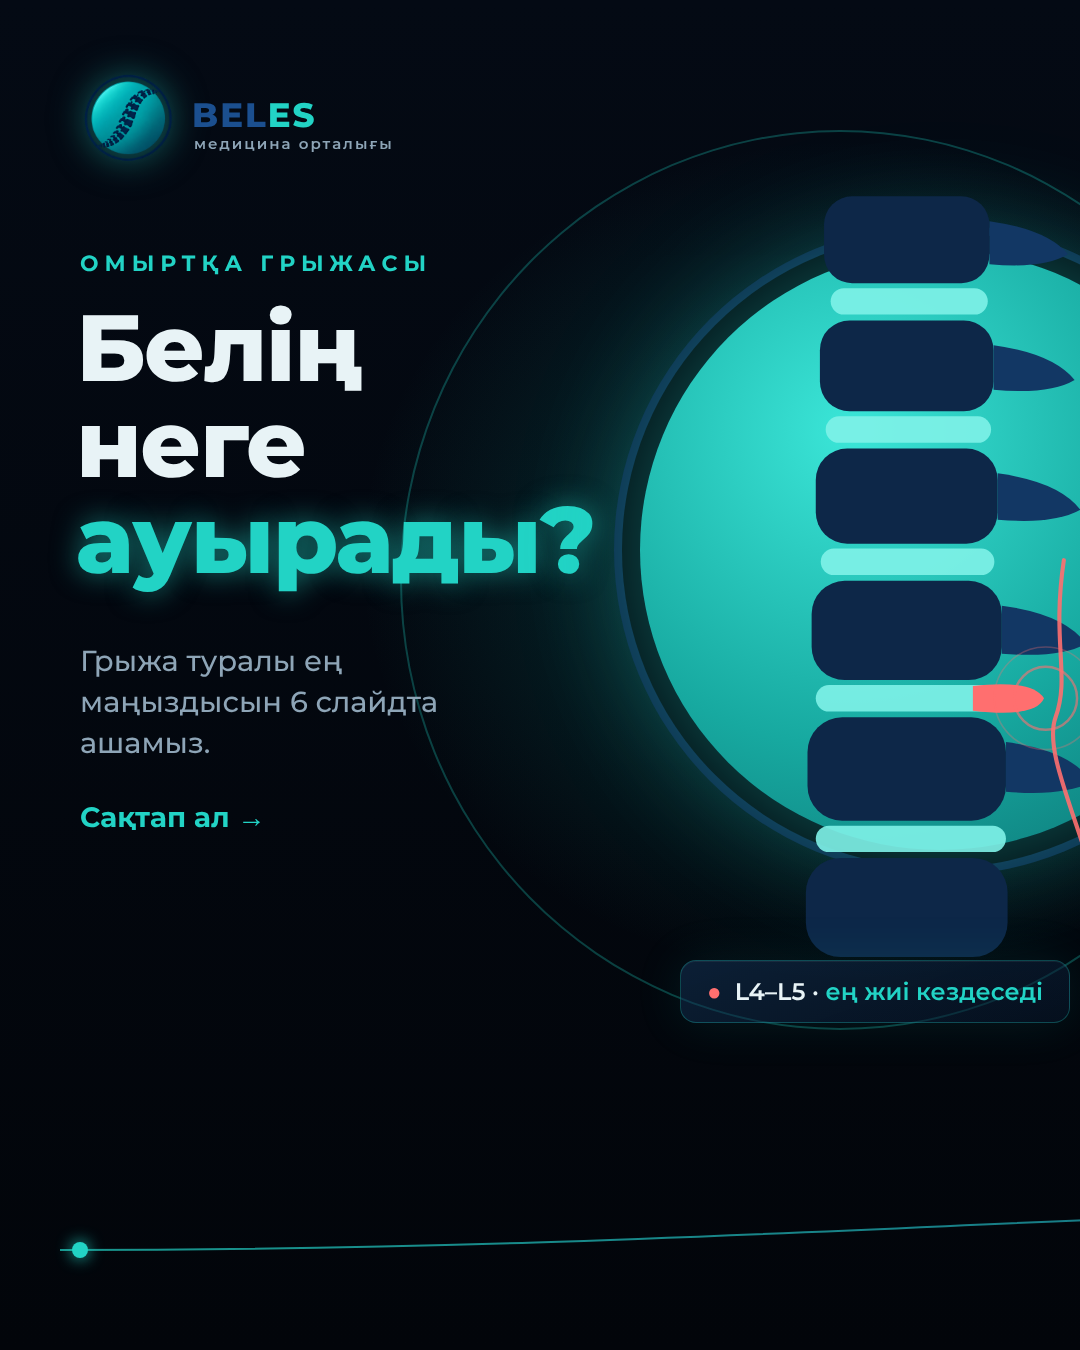
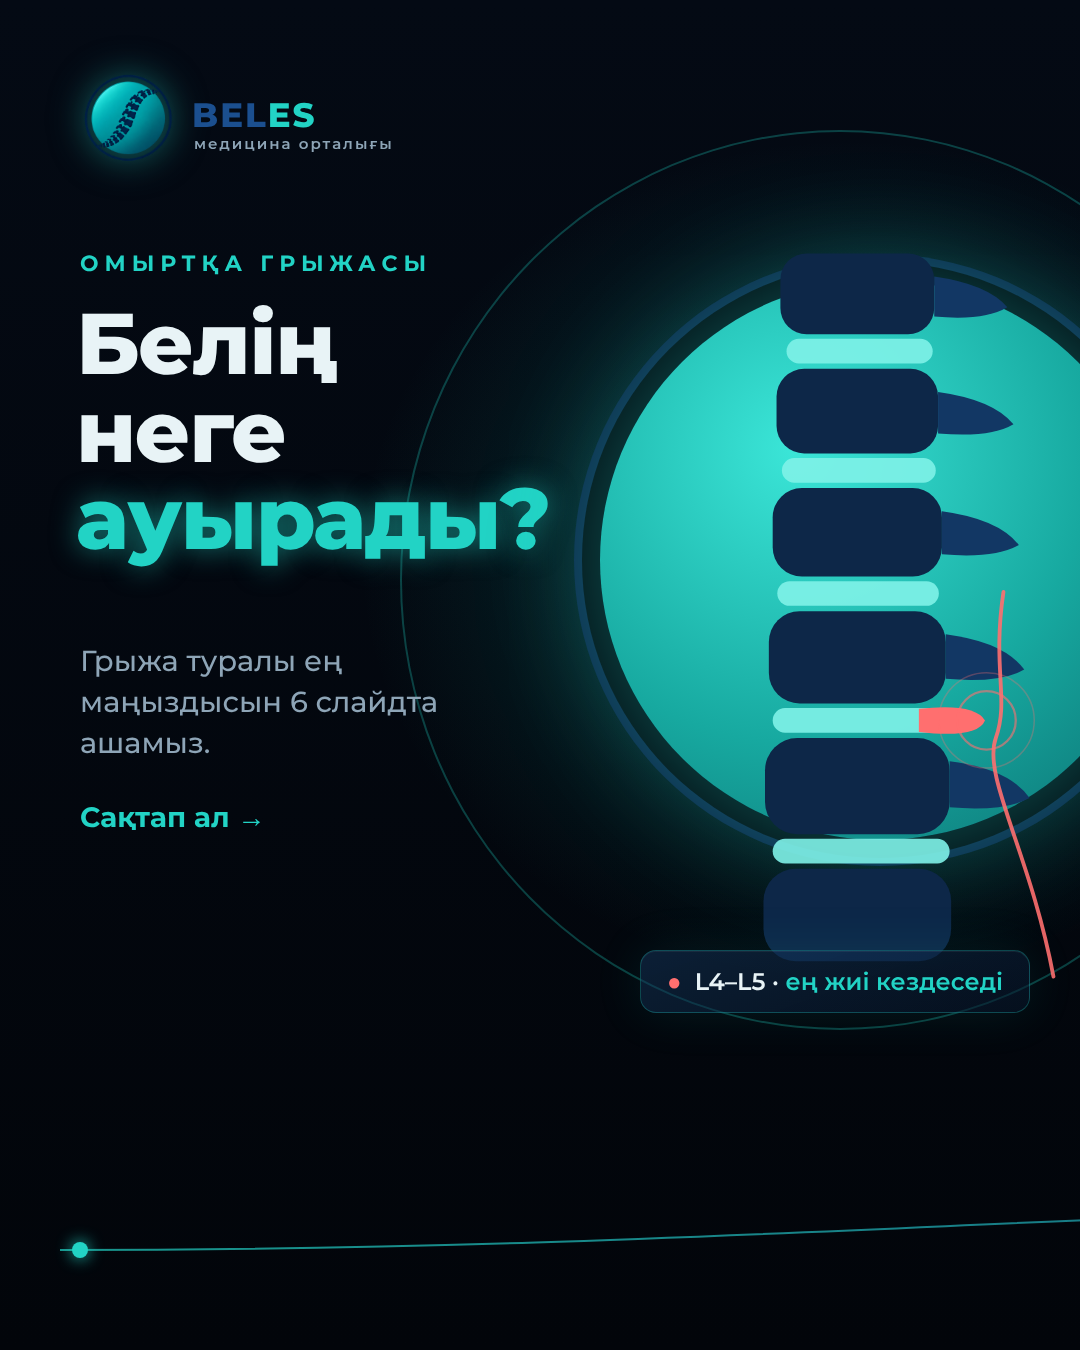
Add white BELES version; fix slide 1/2 overlap in dark version
Claude-Session: https://claude.ai/code/session_01URR1NYDdLdhVyw9YN43v1a

Changed region(s): [[0.0611, 0.1244, 1.0, 0.7778]]

diff --git a/grizha-carousel/white/carousel.html b/grizha-carousel/white/carousel.html
@@ -1,0 +1,198 @@
+<!doctype html>
+<html lang="kk">
+<head>
+<meta charset="utf-8">
+<title>BELES — омыртқа грыжасы</title>
+<link rel="preconnect" href="https://fonts.googleapis.com">
+<link href="https://fonts.googleapis.com/css2?family=Montserrat:wght@400;500;600;700;800;900&display=swap" rel="stylesheet">
+<style>
+  :root{
+    --bg:#FFFFFF; --navy:#0D2748; --navy-2:#1B4F8F; --teal:#0FA89C; --teal-2:#0B8A80;
+    --ink:#0D2748; --muted:#5C7187; --coral:#E5484D; --line:rgba(15,168,156,.25);
+  }
+  *{box-sizing:border-box;margin:0;padding:0}
+  html,body{background:var(--bg)}
+  #stage{position:relative;width:6480px;height:1350px;overflow:hidden;font-family:Montserrat,sans-serif;color:var(--ink);
+    background:
+      radial-gradient(700px 600px at 850px 560px, rgba(34,211,197,.14), transparent 70%),
+      radial-gradient(800px 700px at 2200px 1100px, rgba(27,79,143,.08), transparent 70%),
+      radial-gradient(700px 600px at 3000px 450px, rgba(34,211,197,.10), transparent 70%),
+      radial-gradient(800px 700px at 4300px 300px, rgba(27,79,143,.07), transparent 70%),
+      radial-gradient(800px 700px at 5700px 650px, rgba(34,211,197,.14), transparent 70%),
+      #FFFFFF;}
+  .abs{position:absolute}
+  .h{font-weight:800;line-height:1.02;letter-spacing:-1.5px;color:var(--ink)}
+  .h i{font-style:normal;color:var(--teal)}
+  .kicker{font-size:22px;font-weight:700;letter-spacing:6px;color:var(--teal);text-transform:uppercase}
+  .body{font-size:29px;line-height:1.42;color:var(--muted);font-weight:500}
+  .body b{color:var(--ink);font-weight:700}
+  .num{font-size:300px;font-weight:900;line-height:1;color:transparent;-webkit-text-stroke:2px rgba(15,168,156,.28);letter-spacing:-8px}
+  .ring{border:2px solid var(--line);border-radius:50%}
+  .glass{background:#FFFFFF;border:1.5px solid rgba(15,168,156,.22);
+         border-radius:26px;box-shadow:0 18px 40px rgba(13,39,72,.08)}
+  .dot{width:16px;height:16px;border-radius:50%;background:var(--teal)}
+  .dot.o{background:var(--bg);border:2px solid var(--teal);box-shadow:none}
+  .tick{color:var(--teal);font-weight:800;margin-right:14px}
+</style>
+</head>
+<body>
+<div id="stage">
+
+  <!-- seam-crossing rings -->
+  <div class="abs ring" style="left:400px;top:130px;width:880px;height:900px"></div>
+  <div class="abs ring" style="left:1850px;top:640px;width:700px;height:700px"></div>
+  <div class="abs ring" style="left:2700px;top:520px;width:760px;height:760px"></div>
+  <div class="abs ring" style="left:4160px;top:-160px;width:820px;height:820px"></div>
+  <div class="abs ring" style="left:5300px;top:120px;width:760px;height:760px;opacity:.6"></div>
+
+  <!-- thread line -->
+  <svg class="abs" style="left:0;top:0" width="6480" height="1350">
+    <defs><linearGradient id="ln" x1="0" x2="1"><stop offset="0" stop-color="#22D3C5" stop-opacity=".7"/><stop offset=".5" stop-color="#1B4F8F" stop-opacity=".8"/><stop offset="1" stop-color="#22D3C5" stop-opacity=".7"/></linearGradient></defs>
+    <path d="M60 1250 C 900 1250, 1300 1180, 2160 1215 S 3600 1270, 4320 1225 S 5800 1190, 6420 1240" fill="none" stroke="url(#ln)" stroke-width="2"/>
+  </svg>
+  <div class="abs dot" style="left:72px;top:1242px"></div>
+  <div class="abs dot o" style="left:1620px;top:1212px"></div>
+  <div class="abs dot o" style="left:2700px;top:1228px"></div>
+  <div class="abs dot o" style="left:3780px;top:1238px"></div>
+  <div class="abs dot o" style="left:4860px;top:1210px"></div>
+  <div class="abs dot" style="left:6000px;top:1222px"></div>
+
+  <!-- ================= SLIDE 1 ================= -->
+  <img class="abs" src="logo-mark.png" style="left:80px;top:70px;width:96px;height:96px;filter:drop-shadow(0 6px 12px rgba(13,39,72,.15))">
+  <div class="abs" style="left:192px;top:94px;font-size:34px;font-weight:800;letter-spacing:2px"><span style="color:var(--navy)">BEL</span><span style="color:var(--teal)">ES</span></div>
+  <div class="abs" style="left:194px;top:134px;font-size:15px;font-weight:600;letter-spacing:2px;color:var(--muted)">медицина орталығы</div>
+
+  <div class="abs kicker" style="left:80px;top:250px">Омыртқа грыжасы</div>
+  <div class="abs h" style="left:76px;top:300px;font-size:86px">Белің<br>неге<br><i>ауырады?</i></div>
+  <div class="abs body" style="left:80px;top:640px;width:460px">Грыжа туралы ең маңыздысын 6 слайдта ашамыз.</div>
+  <div class="abs" style="left:80px;top:800px;font-size:28px;font-weight:700;color:var(--teal)">Сақтап ал →</div>
+
+  <!-- glowing disc with spine -->
+  <div class="abs" style="left:600px;top:280px;width:560px;height:560px;border-radius:50%;
+       background:radial-gradient(circle at 35% 30%,#3BE6D8,#17A9A0 55%,#0B6E70);
+       box-shadow:0 30px 80px rgba(15,168,156,.30), 0 0 0 18px #FFFFFF, 0 0 0 26px #0D2748"></div>
+  <svg class="abs" style="left:665px;top:200px" width="400" height="830" viewBox="0 0 520 980">
+    <g id="spine">
+      <g fill="#0D2748">
+        <rect x="150" y="20"  width="200" height="105" rx="34"/>
+        <rect x="145" y="170" width="210" height="110" rx="36"/>
+        <rect x="140" y="325" width="220" height="115" rx="38"/>
+        <rect x="135" y="485" width="230" height="120" rx="40"/>
+        <rect x="130" y="650" width="240" height="125" rx="42"/>
+        <rect x="128" y="820" width="244" height="120" rx="42"/>
+      </g>
+      <g fill="#123764">
+        <path d="M350 50 q70 10 95 40 q-30 18 -95 12z"/>
+        <path d="M355 200 q72 10 98 42 q-30 18 -98 12z"/>
+        <path d="M360 355 q74 10 100 44 q-32 18 -100 12z"/>
+        <path d="M365 515 q76 10 102 46 q-32 18 -102 12z"/>
+        <path d="M370 680 q78 10 104 48 q-34 18 -104 12z"/>
+      </g>
+      <g fill="#7FF2E8" opacity=".9">
+        <rect x="158" y="131" width="190" height="32" rx="16"/>
+        <rect x="152" y="286" width="200" height="32" rx="16"/>
+        <rect x="146" y="446" width="210" height="32" rx="16"/>
+        <rect x="140" y="781" width="230" height="32" rx="16"/>
+      </g>
+      <rect x="140" y="611" width="222" height="32" rx="16" fill="#7FF2E8" opacity=".9"/>
+      <path d="M330 612 q72 -8 86 15 q-10 24 -86 15z" fill="#E5484D"/>
+      <path d="M440 460 C 425 560, 448 600, 430 650 S 475 800, 505 960" fill="none" stroke="#E5484D" stroke-width="5" stroke-linecap="round" opacity=".9"/>
+      <circle cx="418" cy="627" r="38" fill="none" stroke="#E5484D" stroke-width="3" opacity=".6"/>
+      <circle cx="418" cy="627" r="62" fill="none" stroke="#E5484D" stroke-width="2" opacity=".3"/>
+    </g>
+  </svg>
+  <div class="abs glass" style="left:640px;top:950px;padding:16px 26px;font-size:24px;font-weight:600;border-radius:16px">
+    <span style="color:var(--coral)">●</span>&nbsp; L4–L5 · <span style="color:var(--teal)">ең жиі кездеседі</span></div>
+
+  <!-- ================= SLIDE 2 ================= -->
+  <div class="abs kicker" style="left:1220px;top:150px">Таныс па?</div>
+  <div class="abs h" style="left:1216px;top:200px;font-size:74px">Таңертең тұру <i>қиын.</i><br>Аяқ <i>ұйып</i> қалады.</div>
+  <div class="abs body" style="left:1220px;top:430px;width:780px">Бұл жай шаршау емес болуы мүмкін. Грыжаның жиі белгілері:</div>
+  <div class="abs glass" style="left:1220px;top:570px;width:800px;padding:40px 44px">
+    <div style="display:grid;gap:30px;font-size:31px;font-weight:600">
+      <div><span class="tick">✓</span>Бел ауырсынуы <span style="color:var(--teal)">аяққа тарайды</span></div>
+      <div><span class="tick">✓</span>Аяқ, саусақ ұйиды, шымырлайды</div>
+      <div><span class="tick">✓</span>Ұзақ отыру не тұру қиын</div>
+      <div><span class="tick">✓</span>Еңкейгенде, түшкіргенде күшейеді</div>
+    </div>
+  </div>
+  <div class="abs body" style="left:1220px;top:1030px;width:820px;font-size:26px">Екі-үш белгі сәйкес келсе — <b>тексерілуді кейінге қалдырма.</b></div>
+
+  <!-- ================= SLIDE 3 ================= -->
+  <div class="abs num" style="left:2225px;top:80px">01</div>
+  <div class="abs kicker" style="left:2240px;top:400px">Есте сақта</div>
+  <div class="abs h" style="left:2236px;top:450px;font-size:84px">Грыжа —<br>дискінің<br><i>шығып<br>кетуі</i></div>
+  <div class="abs body" style="left:2240px;top:880px;width:540px;font-size:27px">Омыртқалар арасындағы диск жарылып, ішіндегі өзегі сыртқа шығады да, <b>нервті қысады.</b> Ауырсыну осыдан.</div>
+
+  <div class="abs glass" style="left:2820px;top:300px;width:300px;padding:28px;text-align:center">
+    <svg width="240" height="200" viewBox="0 0 240 200">
+      <ellipse cx="120" cy="100" rx="105" ry="80" fill="#BFEFEA" stroke="#0FA89C" stroke-width="3"/>
+      <ellipse cx="120" cy="100" rx="70" ry="52" fill="none" stroke="#0FA89C" stroke-width="2" opacity=".4"/>
+      <ellipse cx="120" cy="96" rx="38" ry="28" fill="#FFFFFF" stroke="#0FA89C" stroke-width="3"/>
+    </svg>
+    <div style="font-size:24px;font-weight:700;margin-top:12px">Қалыпты диск</div>
+  </div>
+  <div class="abs glass" style="left:2820px;top:690px;width:300px;padding:28px;text-align:center;border-color:rgba(229,72,77,.35)">
+    <svg width="240" height="200" viewBox="0 0 240 200">
+      <ellipse cx="120" cy="100" rx="105" ry="80" fill="#BFEFEA" stroke="#0FA89C" stroke-width="3"/>
+      <path d="M150 128 q30 40 18 64 q-30 6 -42 -30z" fill="#E5484D"/>
+      <ellipse cx="125" cy="104" rx="36" ry="26" fill="#E5484D" opacity=".9"/>
+      <path d="M205 200 C 192 170, 176 176, 170 150" stroke="#8E1F2A" stroke-width="5" fill="none" stroke-linecap="round"/>
+    </svg>
+    <div style="font-size:24px;font-weight:700;margin-top:12px;color:var(--coral)">Грыжа → нерв қысылады</div>
+  </div>
+
+  <!-- ================= SLIDE 4 ================= -->
+  <div class="abs num" style="left:3305px;top:80px">02</div>
+  <div class="abs kicker" style="left:3320px;top:400px">Маңызды</div>
+  <div class="abs h" style="left:3316px;top:450px;font-size:84px">Мына белгілерде<br><i style="color:var(--coral)">күтпе</i></div>
+  <div class="abs" style="left:3320px;top:700px;width:860px;border-radius:26px;padding:42px 46px;
+       background:#FFF4F4;border:1.5px solid rgba(229,72,77,.35);box-shadow:0 18px 40px rgba(229,72,77,.10)">
+    <div style="font-size:21px;letter-spacing:4px;font-weight:800;color:var(--coral);margin-bottom:28px">⚠ ШҰҒЫЛ БЕЛГІЛЕР</div>
+    <div style="display:grid;gap:22px;font-size:30px;font-weight:600;line-height:1.3">
+      <div>— Аяқтың күрт әлсіреуі</div>
+      <div>— Несеп не нәжісті ұстай алмау</div>
+      <div>— Шат аймағының сезімталдығы жоғалуы</div>
+    </div>
+    <div style="margin-top:30px;padding-top:24px;border-top:1px solid rgba(229,72,77,.25);font-size:29px;font-weight:700">
+      Бұлар болса — <span style="color:var(--coral)">дереу дәрігерге жүгін.</span>
+    </div>
+  </div>
+
+  <!-- ================= SLIDE 5 ================= -->
+  <div class="abs num" style="left:4385px;top:80px">03</div>
+  <div class="abs kicker" style="left:4400px;top:400px">Ем жолы</div>
+  <div class="abs h" style="left:4396px;top:450px;font-size:80px">Ем — <i>нақты<br>диагноздан</i><br>басталады</div>
+  <div class="abs" style="left:4400px;top:810px;width:860px">
+    <div style="position:absolute;left:31px;top:40px;width:2px;height:300px;background:var(--line)"></div>
+    <div style="display:grid;gap:34px">
+      <div style="display:flex;gap:28px;align-items:flex-start">
+        <div style="flex:none;width:64px;height:64px;border-radius:50%;background:var(--teal);color:#fff;font-weight:800;font-size:28px;display:grid;place-items:center;position:relative">1</div>
+        <div><div style="font-size:31px;font-weight:700">Невролог қарауы + МРТ</div><div class="body" style="font-size:25px">Грыжаның орны мен көлемін анықтау</div></div>
+      </div>
+      <div style="display:flex;gap:28px;align-items:flex-start">
+        <div style="flex:none;width:64px;height:64px;border-radius:50%;background:#fff;border:2px solid var(--teal);color:var(--teal);font-weight:800;font-size:28px;display:grid;place-items:center;position:relative">2</div>
+        <div><div style="font-size:31px;font-weight:700">Жеке ем жоспары</div><div class="body" style="font-size:25px">Сіздің жағдайыңызға сай таңдалады</div></div>
+      </div>
+      <div style="display:flex;gap:28px;align-items:flex-start">
+        <div style="flex:none;width:64px;height:64px;border-radius:50%;background:#fff;border:2px solid var(--teal);color:var(--teal);font-weight:800;font-size:28px;display:grid;place-items:center;position:relative">3</div>
+        <div><div style="font-size:31px;font-weight:700">Қалпына келтіру</div><div class="body" style="font-size:25px">ЕДШ, кинезиотерапия, дұрыс қозғалыс</div></div>
+      </div>
+    </div>
+  </div>
+
+  <!-- ================= SLIDE 6 ================= -->
+  <img class="abs" src="logo-mark.png" style="left:5440px;top:190px;width:480px;height:480px;filter:drop-shadow(0 30px 50px rgba(13,39,72,.18))">
+  <div class="abs" style="left:5440px;top:700px;width:480px;text-align:center;font-size:96px;font-weight:800;letter-spacing:4px;line-height:1">
+    <span style="color:var(--navy)">BEL</span><span style="color:var(--teal)">ES</span></div>
+  <div class="abs" style="left:5440px;top:812px;width:480px;text-align:center;font-size:24px;font-weight:600;letter-spacing:3px;color:var(--muted)">медицина орталығы</div>
+
+  <div class="abs h" style="left:5990px;top:210px;font-size:66px;width:440px">Белің<br><i>ауырмай</i><br>өмір сүр</div>
+  <div class="abs body" style="left:5995px;top:470px;width:420px;font-size:26px">Кеңеске жазылу үшін комментке жаз:</div>
+  <div class="abs" style="left:5995px;top:580px;background:linear-gradient(135deg,#15BFB2,#0B8A80);color:#fff;border-radius:999px;padding:22px 44px;font-size:40px;font-weight:900;letter-spacing:4px;box-shadow:0 16px 34px rgba(15,168,156,.35)">ГРЫЖА</div>
+  <div class="abs body" style="left:5995px;top:710px;width:420px;font-size:23px">Директке толық ақпарат жібереміз</div>
+
+  <div class="abs" style="left:5480px;top:1290px;width:960px;font-size:19px;color:#7D8FA1">Қарсы көрсетілімдері бар. Маманның кеңесі қажет.</div>
+</div>
+</body>
+</html>

diff --git a/grizha-carousel/dark/carousel.html b/grizha-carousel/dark/carousel.html
@@ -63,15 +63,15 @@
   <div class="abs" style="left:194px;top:134px;font-size:15px;font-weight:600;letter-spacing:2px;color:var(--muted)">медицина орталығы</div>
 
   <div class="abs kicker" style="left:80px;top:250px">Омыртқа грыжасы</div>
-  <div class="abs h" style="left:76px;top:300px;font-size:94px">Белің<br>неге<br><i>ауырады?</i></div>
+  <div class="abs h" style="left:76px;top:300px;font-size:86px">Белің<br>неге<br><i>ауырады?</i></div>
   <div class="abs body" style="left:80px;top:640px;width:460px">Грыжа туралы ең маңыздысын 6 слайдта ашамыз.</div>
   <div class="abs" style="left:80px;top:800px;font-size:28px;font-weight:700;color:var(--teal)">Сақтап ал →</div>
 
   <!-- glowing disc with spine -->
-  <div class="abs" style="left:640px;top:250px;width:600px;height:600px;border-radius:50%;
+  <div class="abs" style="left:600px;top:280px;width:560px;height:560px;border-radius:50%;
        background:radial-gradient(circle at 35% 30%,#3BE6D8,#17A9A0 55%,#0B6E70);
        box-shadow:0 0 120px rgba(34,211,197,.45), 0 0 0 18px #03070D, 0 0 0 26px #0D2748"></div>
-  <svg class="abs" style="left:700px;top:170px" width="430" height="830" viewBox="0 0 520 980">
+  <svg class="abs" style="left:665px;top:200px" width="400" height="830" viewBox="0 0 520 980">
     <g id="spine">
       <g fill="#0D2748">
         <rect x="150" y="20"  width="200" height="105" rx="34"/>
@@ -101,14 +101,14 @@
       <circle cx="418" cy="627" r="62" fill="none" stroke="#FF6F6F" stroke-width="2" opacity=".3"/>
     </g>
   </svg>
-  <div class="abs glass" style="left:680px;top:960px;padding:16px 26px;font-size:24px;font-weight:600;border-radius:16px">
+  <div class="abs glass" style="left:640px;top:950px;padding:16px 26px;font-size:24px;font-weight:600;border-radius:16px">
     <span style="color:var(--coral)">●</span>&nbsp; L4–L5 · <span style="color:var(--teal)">ең жиі кездеседі</span></div>
 
   <!-- ================= SLIDE 2 ================= -->
-  <div class="abs kicker" style="left:1160px;top:150px">Таныс па?</div>
-  <div class="abs h" style="left:1156px;top:200px;font-size:84px">Таңертең тұру <i>қиын.</i><br>Аяқ <i>ұйып</i> қалады.</div>
-  <div class="abs body" style="left:1160px;top:430px;width:820px">Бұл жай шаршау емес болуы мүмкін. Грыжаның жиі белгілері:</div>
-  <div class="abs glass" style="left:1160px;top:570px;width:840px;padding:40px 44px">
+  <div class="abs kicker" style="left:1220px;top:150px">Таныс па?</div>
+  <div class="abs h" style="left:1216px;top:200px;font-size:74px">Таңертең тұру <i>қиын.</i><br>Аяқ <i>ұйып</i> қалады.</div>
+  <div class="abs body" style="left:1220px;top:430px;width:780px">Бұл жай шаршау емес болуы мүмкін. Грыжаның жиі белгілері:</div>
+  <div class="abs glass" style="left:1220px;top:570px;width:800px;padding:40px 44px">
     <div style="display:grid;gap:30px;font-size:31px;font-weight:600">
       <div><span class="tick">✓</span>Бел ауырсынуы <span style="color:var(--teal)">аяққа тарайды</span></div>
       <div><span class="tick">✓</span>Аяқ, саусақ ұйиды, шымырлайды</div>
@@ -116,7 +116,7 @@
       <div><span class="tick">✓</span>Еңкейгенде, түшкіргенде күшейеді</div>
     </div>
   </div>
-  <div class="abs body" style="left:1160px;top:1030px;width:820px;font-size:26px">Екі-үш белгі сәйкес келсе — <b>тексерілуді кейінге қалдырма.</b></div>
+  <div class="abs body" style="left:1220px;top:1030px;width:820px;font-size:26px">Екі-үш белгі сәйкес келсе — <b>тексерілуді кейінге қалдырма.</b></div>
 
   <!-- ================= SLIDE 3 ================= -->
   <div class="abs num" style="left:2225px;top:80px">01</div>
